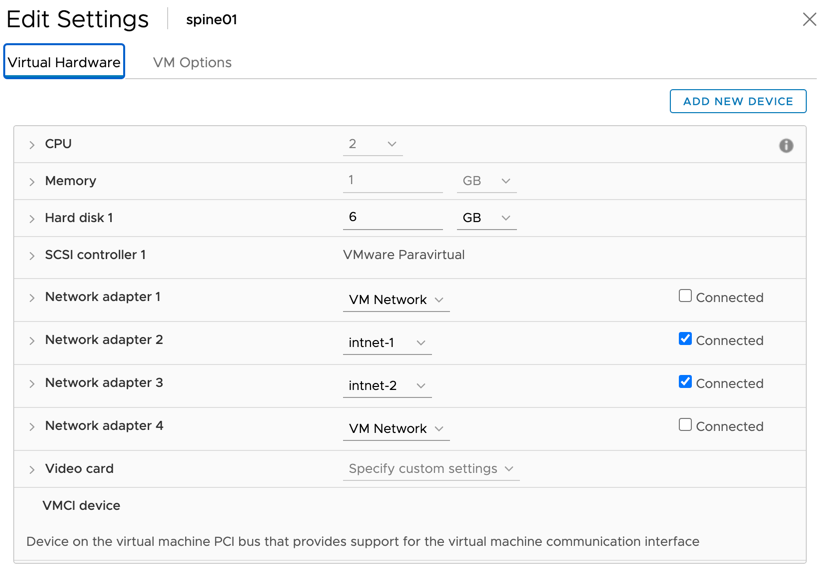
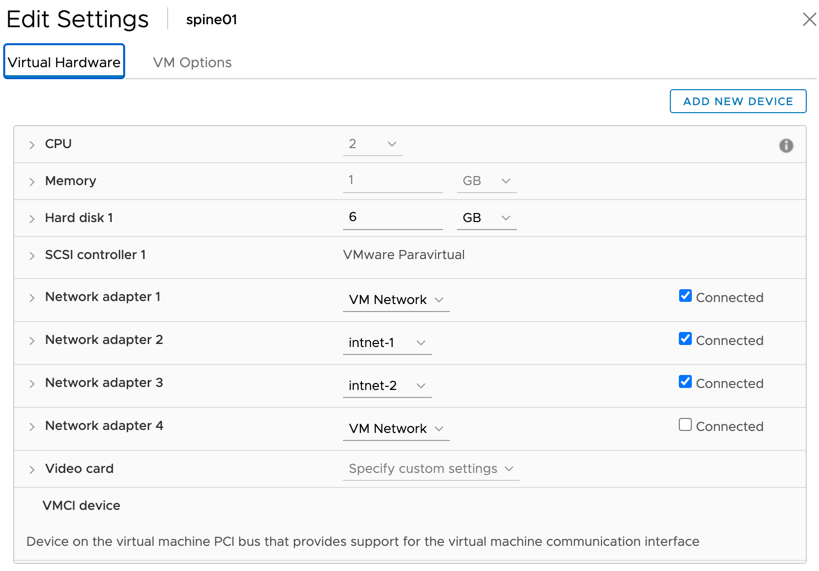
edits to Vsphere

diff --git a/content/cumulus-vx/VMware-vSphere-ESXi.md b/content/cumulus-vx/VMware-vSphere-ESXi.md
@@ -7,7 +7,7 @@ This section describes how to install and set up Cumulus VX in VMWare vSphere to
 
 {{% vx/intro %}}
 
-These steps were tested with VMware vSphere (ESXi) 6.7.0 and VSphere web client version 6.7.0.30000.
+These steps were tested with VMware vSphere (ESXi) 6.7.0 and VSphere web client (HTML5) version 6.7.0.30000.
 
 ## Create and Configure the VMs
 
@@ -51,7 +51,7 @@ Download the {{<exlink url="https://cumulusnetworks.com/products/cumulus-vx/down
 
 7. Under **VMs and Templates**, select `leaf01` in the left pane, then click the **Edit Settings** icon.
 
-8. Under **Virtual Hardware**, configure the network adapters as shown below for each VM. Make sure **Connected** is not selected for Adapter 1.
+8. Under **Virtual Hardware**, configure the network adapters as shown below for each VM.
 
       {{< tabs "TabID55 ">}}
 
